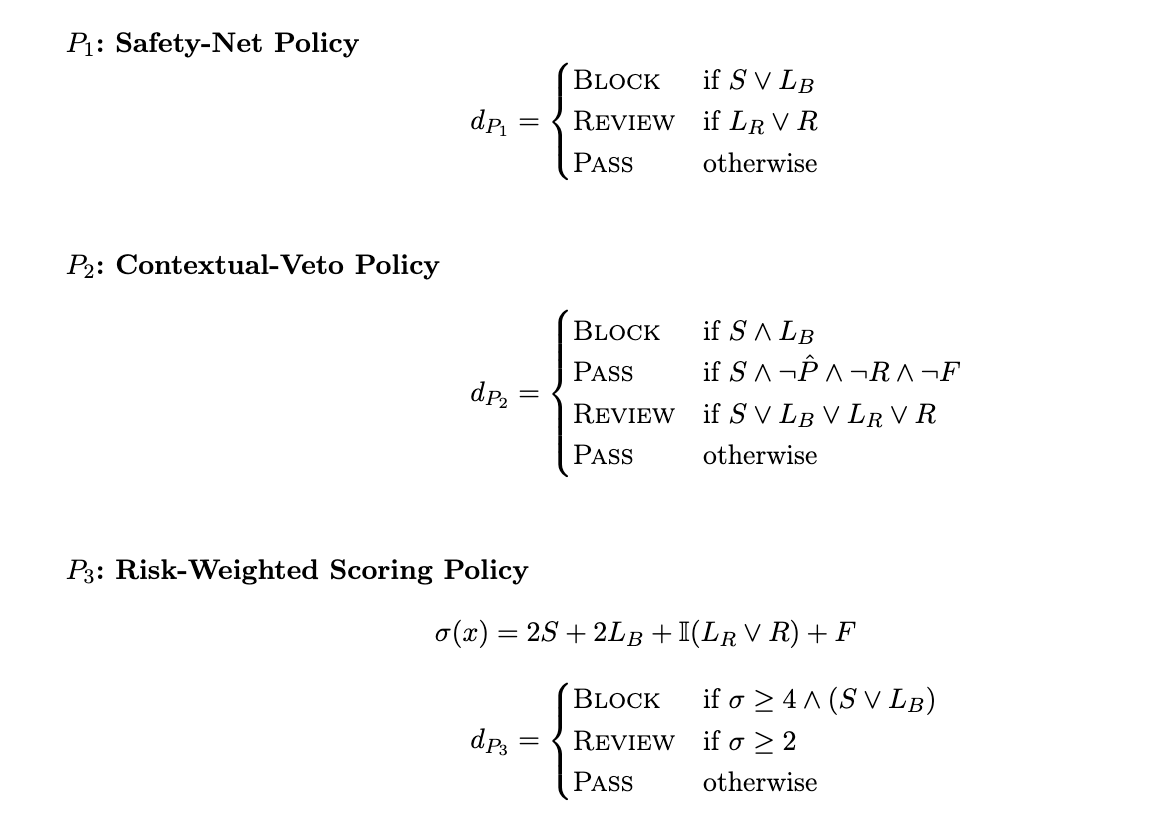
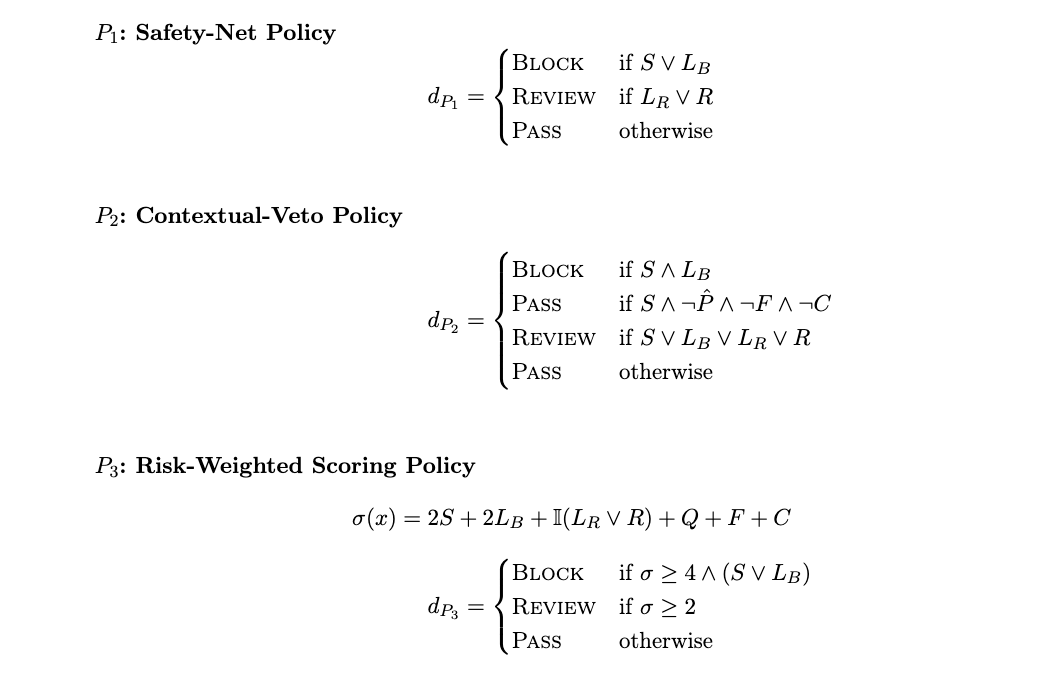
Gate policy figure now shows the implemented logic, not the specification
The re-rendered figure corrects the two formulas that previously showed the
thesis specification:

  P2 veto   S and not P-hat and not R and not F   ->   S and not P-hat and not F and not C
  P3 score  2S + 2L_B + 1(L_R or R) + F           ->   2S + 2L_B + 1(L_R or R) + Q + F + C

Both were checked line by line against p2_contextual_veto.py and
p3_risk_weighted.py, including the score weights of 2 for the scanner hit and the
LLM block, 1 for the review indicator, the G6 format signal, the high-risk path
and the critical secret type, and the BLOCK threshold of sigma >= 4 with a
detection signal required. P1 was already correct.

The figure therefore no longer needs the correction block that sat under it. Its
caption now states that it shows the implementation and points at the divergence
section for the two places where the thesis prints something else.

The figure still omits the fail-closed pre-policy rule H implies REVIEW, which
the sentence above it states instead.

Notation harmonised: the divergence table wrote the raw LLM judgment as "pred"
while the figure and the variable table write it as P-hat.

diff --git a/README.md b/README.md
@@ -213,18 +213,9 @@ detection logic.
 
 ![The three gate policies as decision functions over the signal variables](docs/figures/gate-policies.png)
 
-P1 is implemented exactly as printed above. P2 and P3 are not. The implementation
-evaluates:
-
-```
-P2   PASS   if  S ∧ ¬P̂ ∧ ¬F ∧ ¬C                  (¬R dropped, ¬C added)
-P3   σ  =  2S + 2L_B + 𝟙(L_R ∨ R) + Q + F + C      (Q and C added)
-```
-
-Both deviations are set out in
-[Where implementation and thesis diverge](#where-implementation-and-thesis-diverge).
-Every number reported below comes from the implementation, never from the printed
-formulas.
+*The logic as implemented in this repository, which is what every number below was
+produced from. The thesis prints the P2 veto and the P3 score differently, see
+[Where implementation and thesis diverge](#where-implementation-and-thesis-diverge).*
 
 In P3 a BLOCK always requires a detection signal, so context alone can never block.
 
@@ -294,7 +285,7 @@ the written specification and this repository do not match:
 |---|---|---|
 | G4 score, Eq. 4.1 | σ_u = Σ w_i · f_i with threshold θ_u, alongside the hard rules | Not implemented. Only the seven ordered rules in [`REVIEW_RULES`](src/guardrails/g4_uncertainty.py#L654) |
 | G4 flags, App. 4/6 | 9 uncertainty flags | 13, in [`KNOWN_UNCERTAINTY_FLAGS`](src/guardrails/g4_uncertainty.py#L41) |
-| P2 veto, Eq. 4.4 | S ∧ ¬P̂ ∧ ¬R ∧ ¬F | S ∧ ¬pred ∧ ¬F ∧ ¬C |
+| P2 veto, Eq. 4.4 | S ∧ ¬P̂ ∧ ¬R ∧ ¬F | S ∧ ¬P̂ ∧ ¬F ∧ ¬C |
 | P3 score, Eq. 4.5 | σ = 2S + 2L_B + 𝟙(L_R ∨ R) + F | σ = 2S + 2L_B + 𝟙(L_R ∨ R) + Q + F + C |
 
 The P2 deviation was deliberate. G4 fires on every `NEG_DECOY` sample, so keeping
